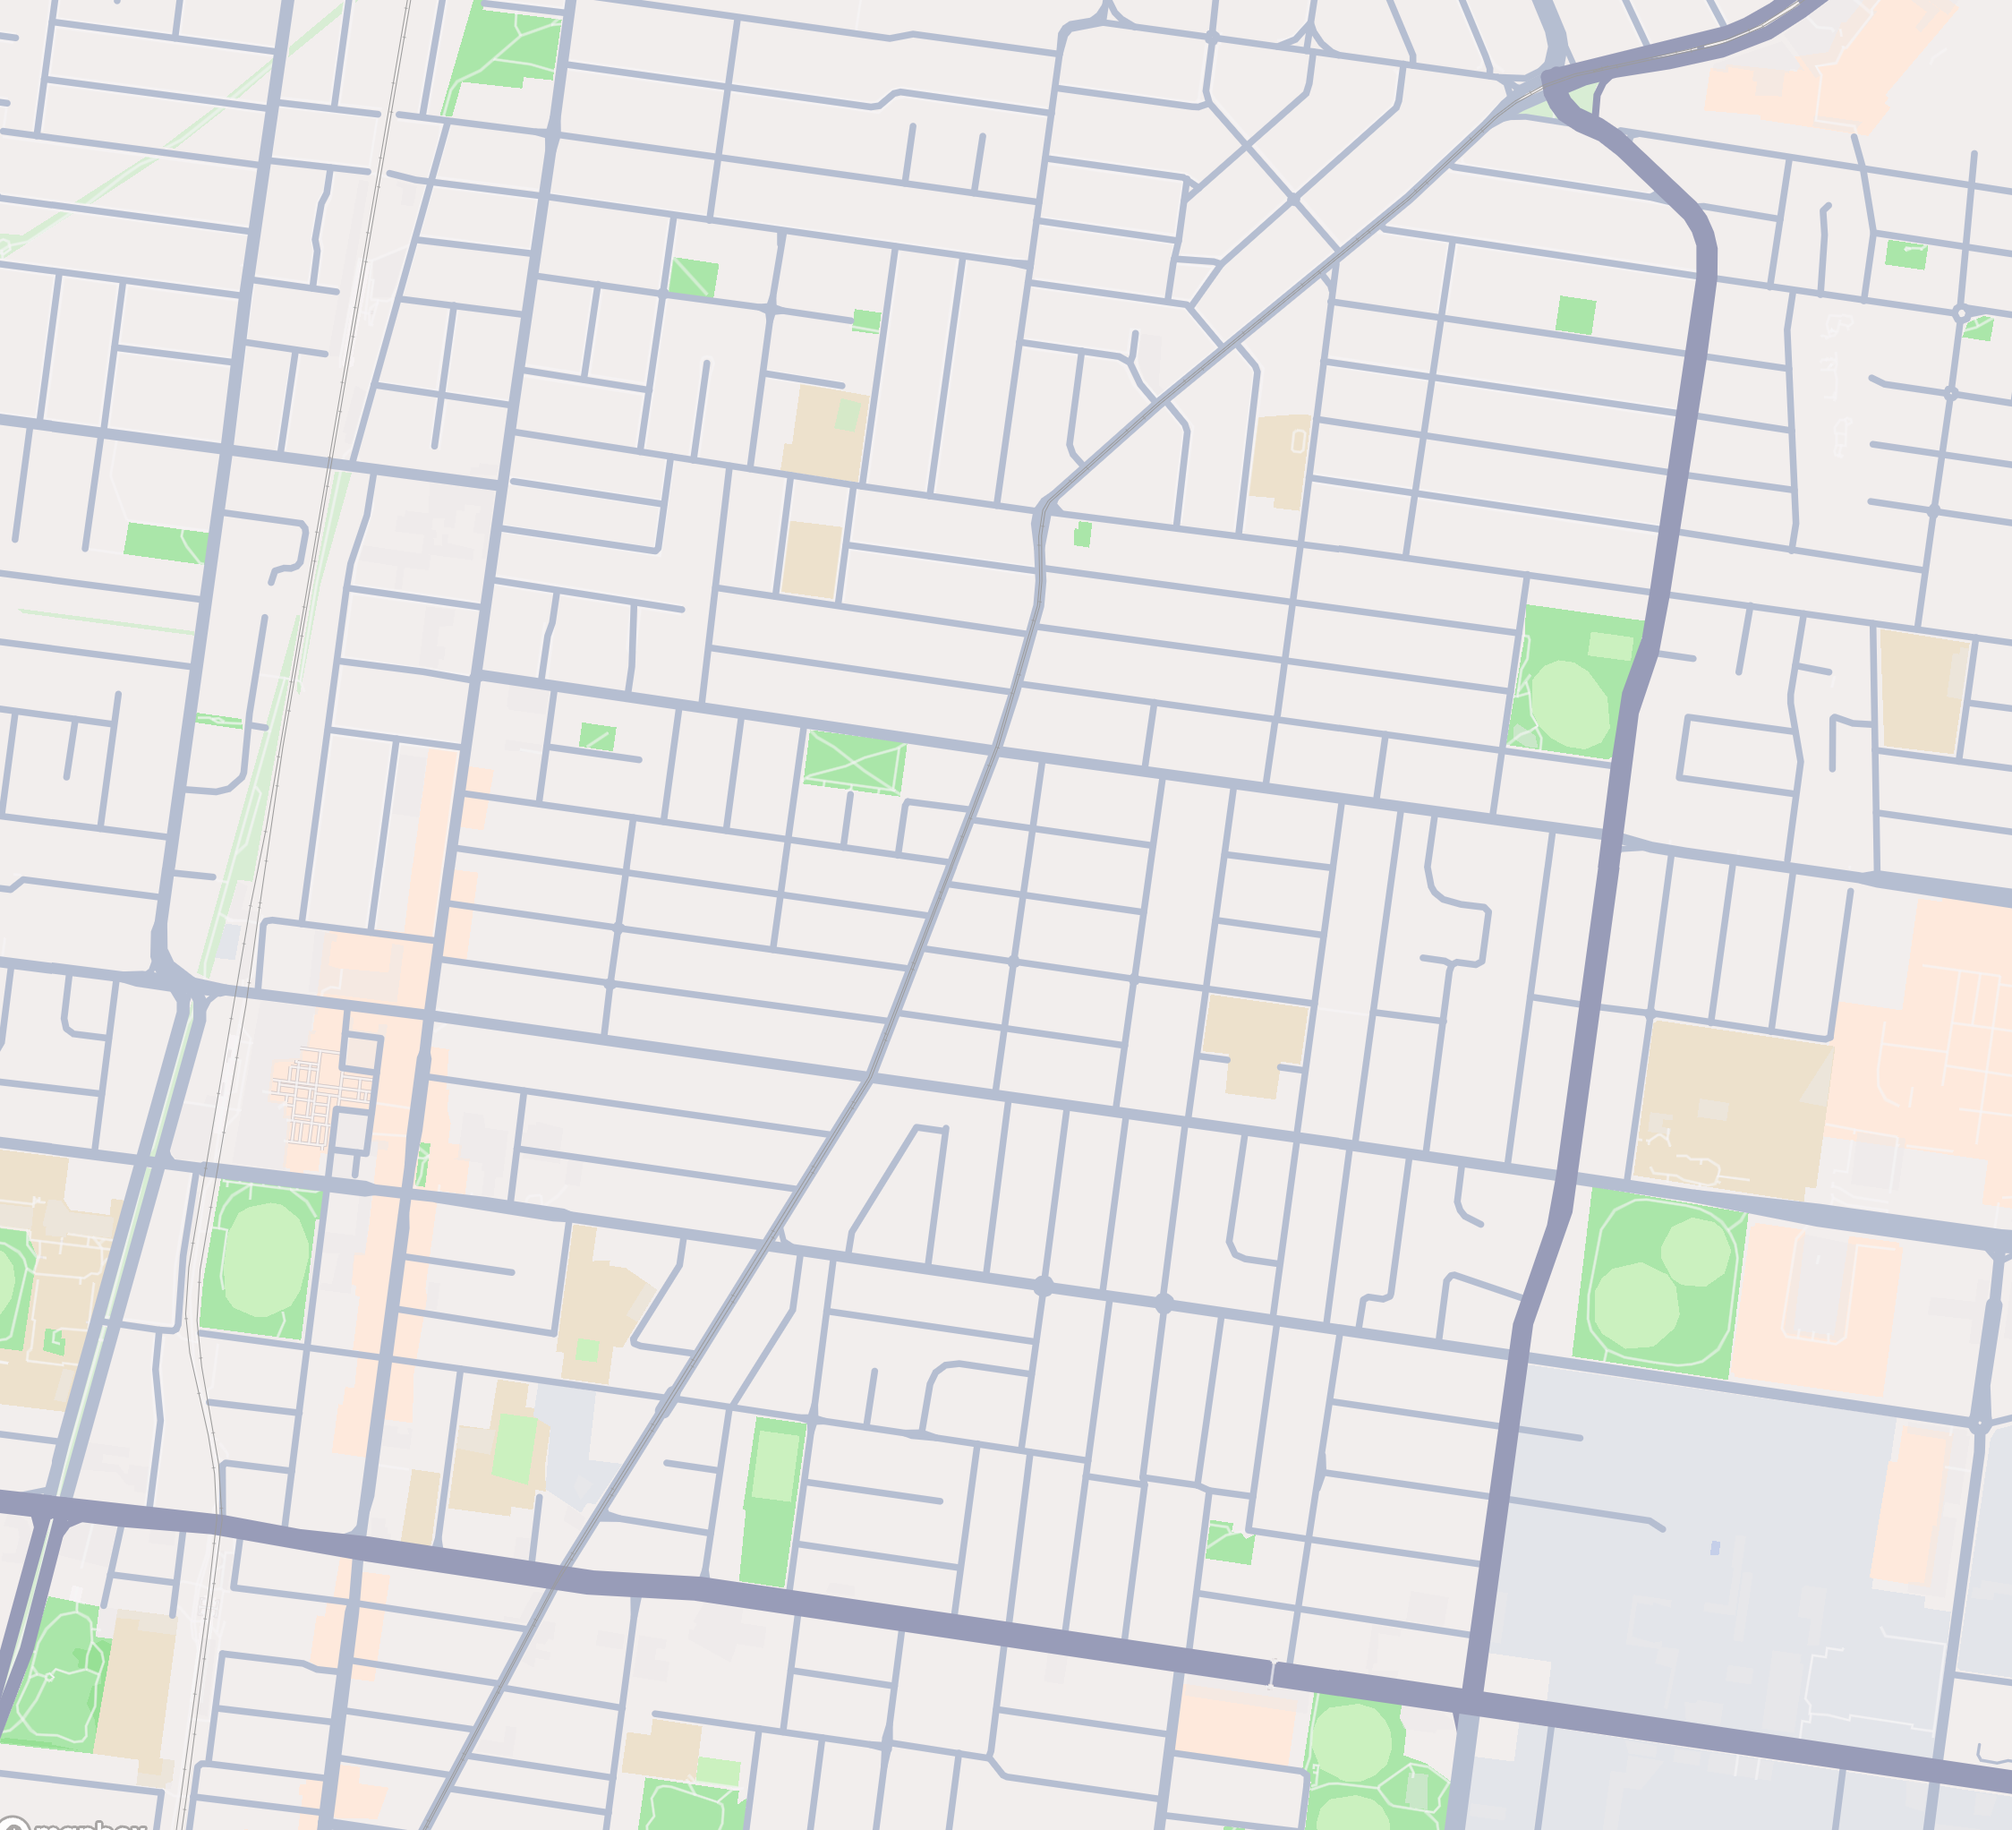
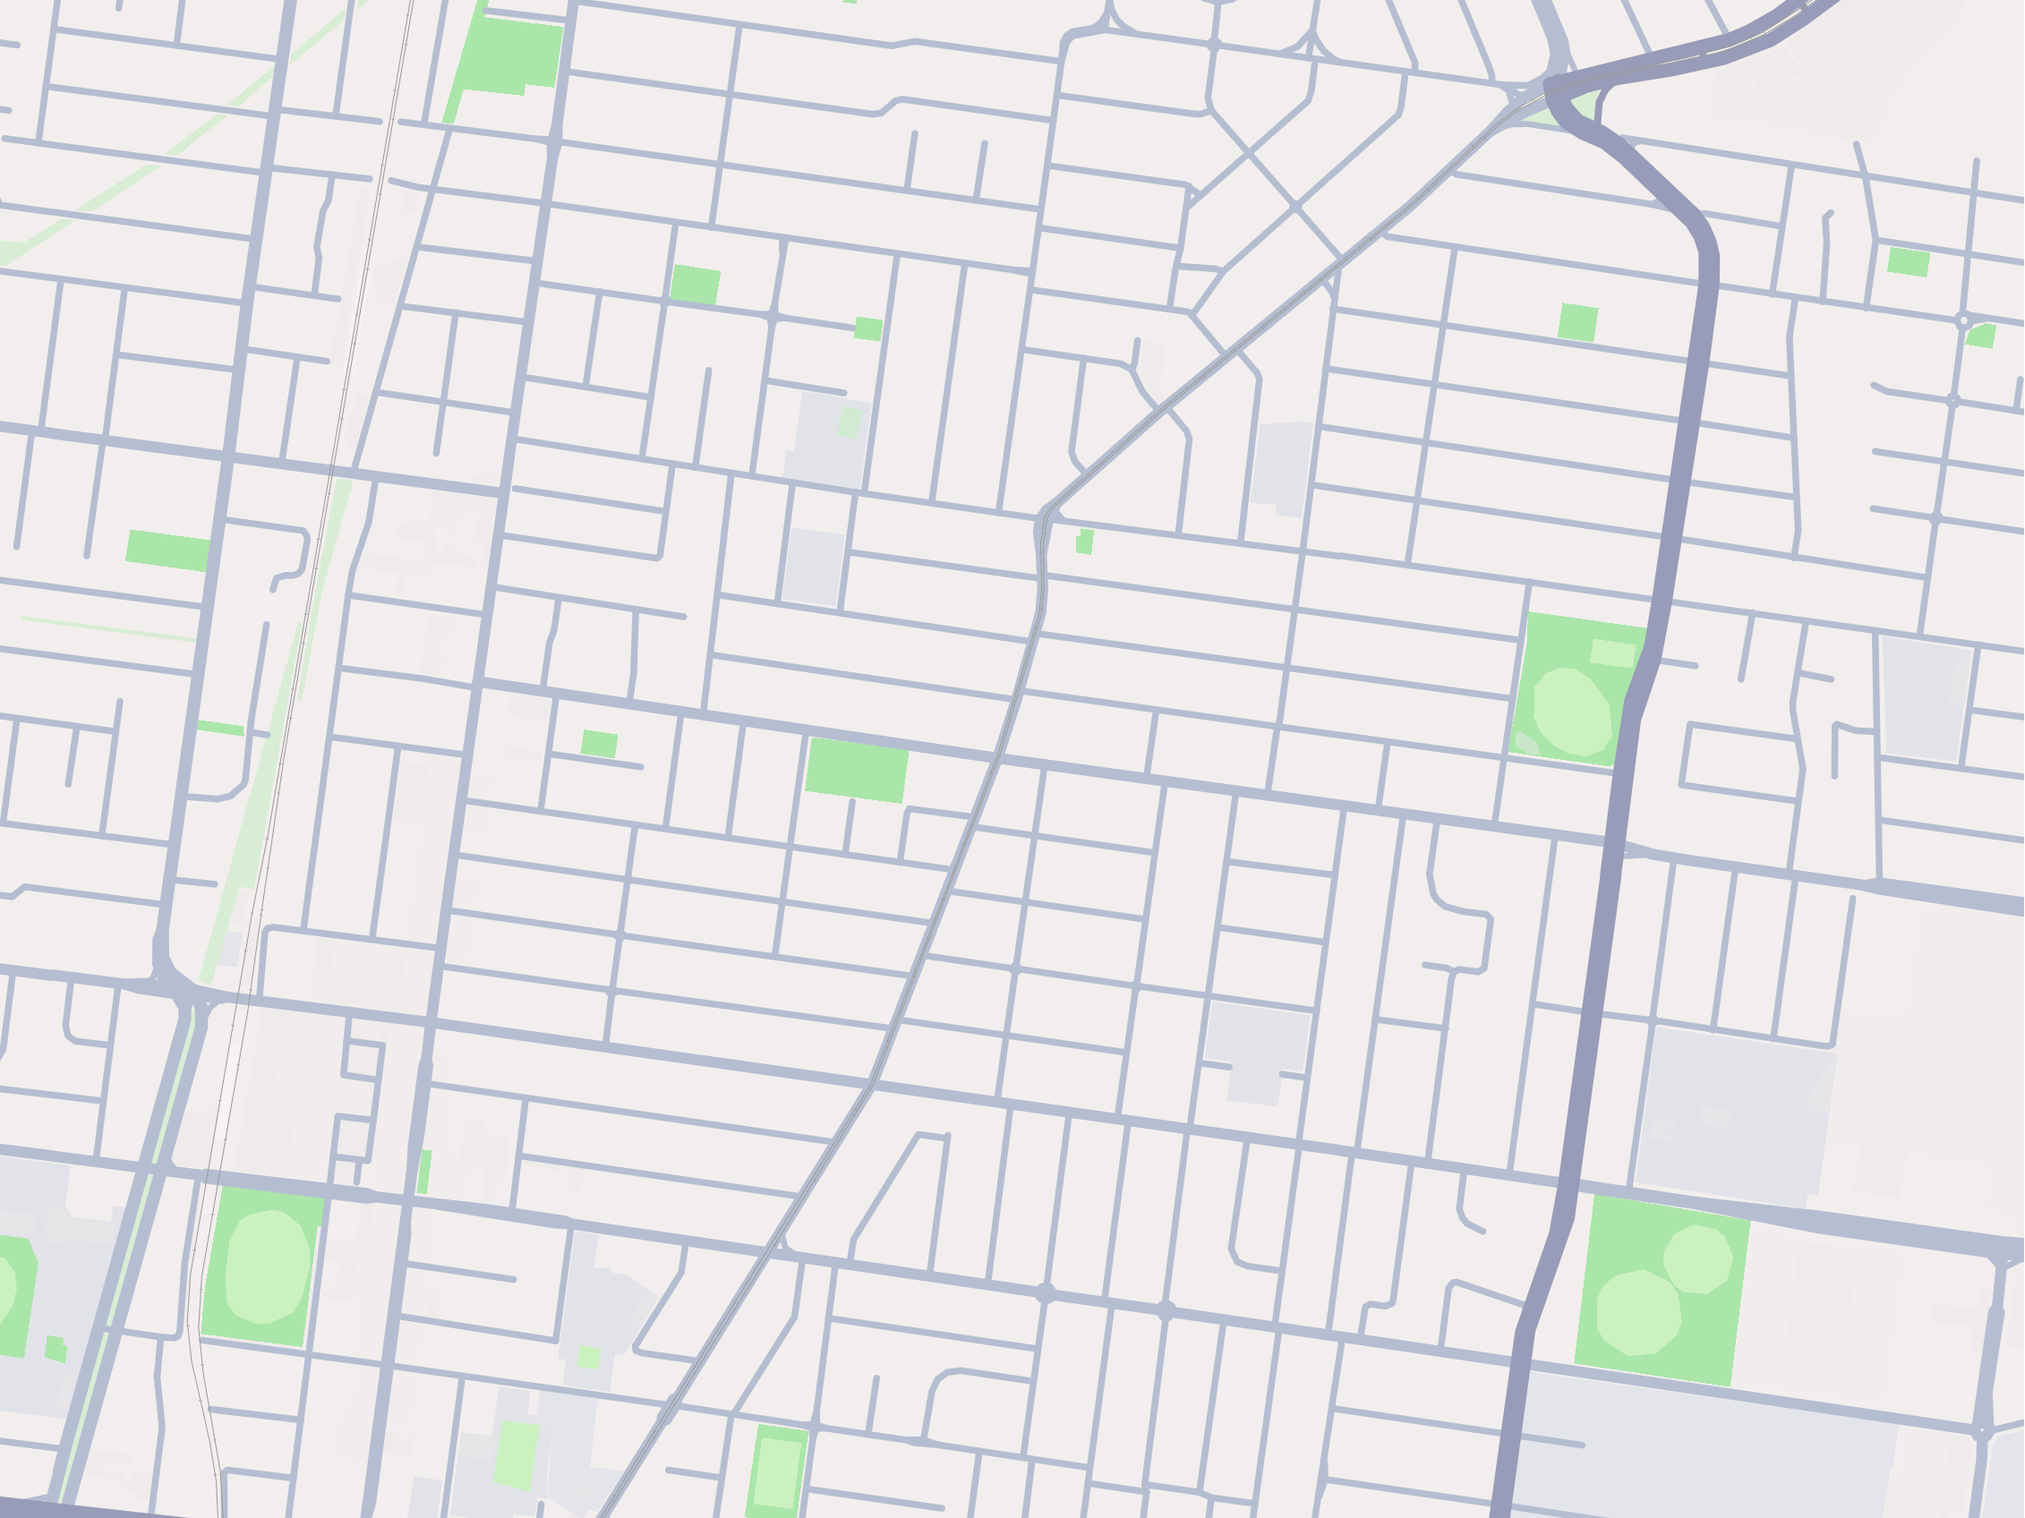
New map asset with nicer colours; step 1/2 map and pin positions from latest Figma

diff --git a/index.html b/index.html
@@ -147,11 +147,11 @@
     box-shadow: inset 0 0 0 1px var(--border-alpha);
     pointer-events: none;
   }
-  .map__img { position: absolute; left: -173px; top: -288px; width: 972px; height: 884px; transform-origin: 0 0; }
+  .map__img { position: absolute; left: -161px; top: -148px; width: 838px; height: 762px; object-fit: cover; transform-origin: 0 0; }
   /* step 3: the map goes soft and green. A blurred copy of the map with teal-50 multiplied over it.
      (filter, not backdrop-filter: the fading opacity would stop a backdrop blur from working) */
   .tint { position: absolute; inset: 0; }
-  .tint img { position: absolute; left: -262px; top: -407px; width: 1189px; height: 1081px; filter: blur(5px); }
+  .tint img { position: absolute; left: -331px; top: -311px; width: 1189px; height: 1081px; object-fit: cover; filter: blur(5px); }
   .tint::after { content: ""; position: absolute; inset: 0; background: var(--teal-50); mix-blend-mode: multiply; }
   .phone {
     left: 117px; top: 54px; width: 279px; height: 665px;
@@ -448,14 +448,14 @@ const PINS = [
   { key: 'pin1', left: 18, top: 230, origin: [78, 148], tooltip: [16, 96], photos: [
     { x: 0, y: 0, w: 121.418, h: 130.618, t: 'rotate(-13.18deg)', cw: 98.701, ch: 111.039, src: 'pin1-a.jpg' },
     { x: 43.24, y: 15.96, w: 104.297, h: 113.207, t: 'rotate(10.99deg)', cw: 87.138, ch: 98.401, src: 'pin1-b.jpg' } ] },
-  { key: 'pin2', left: 85, top: 45, origin: [69.6, 145], tooltip: [7.6, 93], photos: [
+  { key: 'pin2', left: 85, top: 40, origin: [69.6, 145], tooltip: [7.6, 93], photos: [
     { x: 0, y: 0, w: 107.952, h: 124.419, t: 'rotate(-8.16deg) skewX(-1.09deg)', cw: 95.154, ch: 111.767, src: 'pin2-a.jpg' },
     { x: 34.78, y: 15.45, w: 104.402, h: 106.597, t: 'rotate(11.99deg) skewX(2.07deg)', cw: 91.053, ch: 89.006, src: 'pin2-b.jpg' } ] },
   { key: 'pin3', left: 341, top: 308, origin: [68, 134.35], tooltip: [6, 82.35], photos: [
     { x: 0, y: 3.27, w: 108.829, h: 112.602, t: 'rotate(166.51deg) scaleY(-1)', cw: 89.272, ch: 94.377, src: 'pin3-a.jpg' },
     { x: 22.38, y: 0, w: 103.955, h: 114.326, t: 'rotate(-171.09deg) scaleY(-1)', cw: 89.272, ch: 101.721, src: 'pin3-b.jpg' } ] },
   // top-right pin — stays for step 2, at the end of the route
-  { key: 'pinKeep', left: 313, top: 57, origin: [62, 133.38], tooltip: [0, 81.38], photos: [
+  { key: 'pinKeep', left: 331, top: 52, origin: [62, 133.38], tooltip: [0, 81.38], photos: [
     { x: 31.09, y: 1.93, w: 108.695, h: 112.464, t: 'rotate(13.49deg)', cw: 89.162, ch: 94.261, src: 'pin3-a.jpg' },
     { x: 1.84, y: 0, w: 97.405, h: 108.954, t: 'rotate(-4.35deg)', cw: 89.89, ch: 102.426, src: 'pin3-b.jpg' } ] },
 ];
@@ -483,21 +483,22 @@ for (const p of PINS) {
    STATES — what every layer looks like at rest in each state.
    0 = before the section is reached, 1–3 = the three steps.
    ===================================================================== */
-const ZOOM = 1189 / 972;             // step 2 map is the step 1 map scaled up
+const ZOOM = 1189 / 838;             // step 2 map is the step 1 map scaled up
+const ME_ZOOM = 1189 / 972;          // the dot and cone grow a little less than the map
 const PIN_FROM = TIMING.pinPop.fromScale;
 const TURN = 43.8;   // degrees: the cone turns from facing up-right to facing along the route's first leg
 const POP_OUT = { o: 0, s: TIMING.pop.fromScale };
 const RISE = TIMING.phoneRise.distance;
 const S = {
-  map:        [{ x: 0, y: 0, s: 1 }, { x: 0, y: 0, s: 1 }, { x: -89, y: -119, s: ZOOM }, { x: -89, y: -119, s: ZOOM }],
+  map:        [{ x: 0, y: 0, s: 1 }, { x: 0, y: 0, s: 1 }, { x: -170, y: -163, s: ZOOM }, { x: -170, y: -163, s: ZOOM }],
   tint:       [{ o: 0 }, { o: 0 }, { o: 0 }, { o: 1 }],
   phone:      [{ y: RISE }, { y: RISE }, { y: RISE }, { y: 0 }], // hidden below the map's clipped bottom edge
   route:      [{ o: 1, y: 0, d: 0 }, { o: 1, y: 0, d: 0 }, { o: 1, y: 0, d: 1 }, { o: 0, y: 0, d: 1 }],
-  me:         [{ o: 1, x: 0, y: 0, s: 1, r: 0 }, { o: 1, x: 0, y: 0, s: 1, r: 0 }, { o: 1, x: 1.14, y: 1.1, s: ZOOM, r: TURN }, { o: 0, x: 1.14, y: 1.1, s: ZOOM, r: TURN }],
+  me:         [{ o: 1, x: 0, y: 0, s: 1, r: 0 }, { o: 1, x: 0, y: 0, s: 1, r: 0 }, { o: 1, x: 1.14, y: 1.1, s: ME_ZOOM, r: TURN }, { o: 0, x: 1.14, y: 1.1, s: ME_ZOOM, r: TURN }],
   pin1:       [{ o: 0, s: PIN_FROM }, { o: 1, s: 1 }, { o: 0, s: 1 }, { o: 0, s: 1 }],
   pin2:       [{ o: 0, s: PIN_FROM }, { o: 1, s: 1 }, { o: 0, s: 1 }, { o: 0, s: 1 }],
   pin3:       [{ o: 0, s: PIN_FROM }, { o: 1, s: 1 }, { o: 0, s: 1 }, { o: 0, s: 1 }],
-  pinKeep:    [{ o: 0, s: PIN_FROM, x: 0, y: 0 }, { o: 1, s: 1, x: 0, y: 0 }, { o: 1, s: 1, x: 31.5, y: -14.38 }, { o: 0, s: 1, x: 31.5, y: -14.38 }],
+  pinKeep:    [{ o: 0, s: PIN_FROM, x: 0, y: 0 }, { o: 1, s: 1, x: 0, y: 0 }, { o: 1, s: 1, x: 13.5, y: -9.38 }, { o: 0, s: 1, x: 13.5, y: -9.38 }],
   card:       [{ o: 0, s: 0.8, y: 0 }, { o: 0, s: 0.8, y: 0 }, { o: 1, s: 1, y: 0 }, { o: 0, s: 1, y: 0 }],
   chipPink:   [POP_OUT, null, POP_OUT, POP_OUT], // step 1 comes from scroll
   chipPurple: [POP_OUT, null, POP_OUT, POP_OUT], // step 1 comes from scroll
